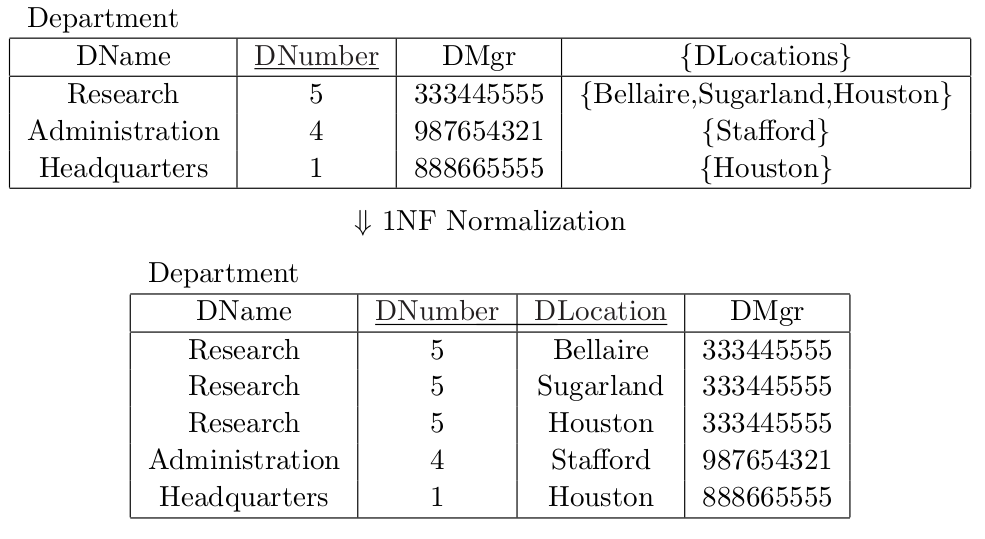
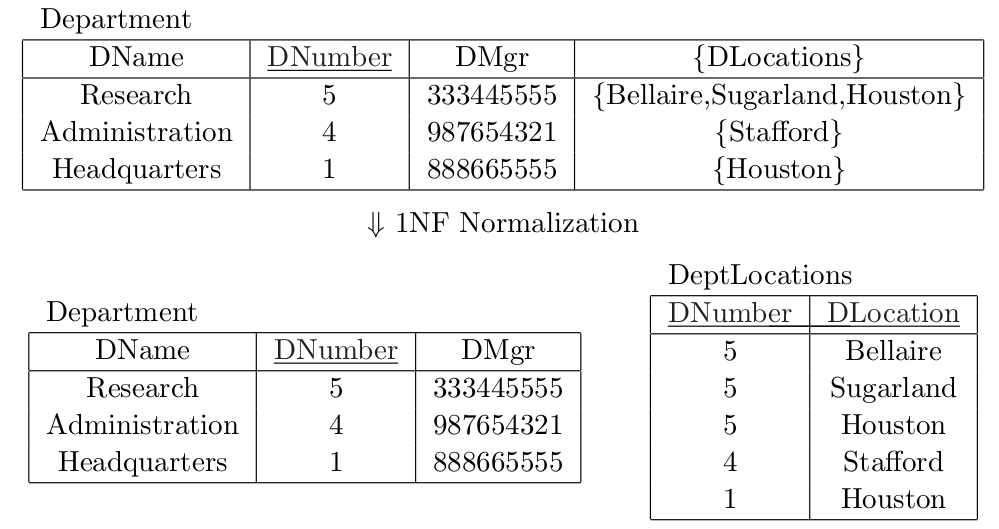
[fix] Wrong fig

Changed region(s): [[0.0305, 0.4839, 1.0, 0.9981], [0.0, 0.0, 1.0, 0.3629], [0.3655, 0.3932, 0.6396, 0.4537]]

diff --git a/main.tex b/main.tex
@@ -346,13 +346,22 @@ On crée une relation pour chaque entité, et une relation avec une clef étrang
 qui référencent les deux autres relations (on passe de 2 à 3 tables).
 
 \paragraph{Attributs multivalués}
+\subparagraph{Avec une relation supplémentaire}
 On traduit une entité $E$ contenant un attribut multivalué en relation $R$.
 On crée une relation contenant une clef étrangère vers la clef primaire de $R$ et
 une des valeurs de l'attribut.
 \begin{figure}[H]
     \center
     \includegraphics[width=.7\textwidth]{fig/multiattrs-1nf.png}
-    \caption{Transformation des attributs multivalués}
+    \caption{Transformation des attributs multivalués en ajoutant une relation}
+\end{figure}
+
+\subparagraph{Avec une seule relation}
+On ajoute une ligne par valeur de l'attribut multivalué pour un même objet.
+\begin{figure}[H]
+    \center
+    \includegraphics[width=.7\textwidth]{fig/multiattrs-single.png}
+    \caption{Transformation des attributs multivalués en une seule relation}
 \end{figure}
 
 \subsubsection{Perte d'information}
